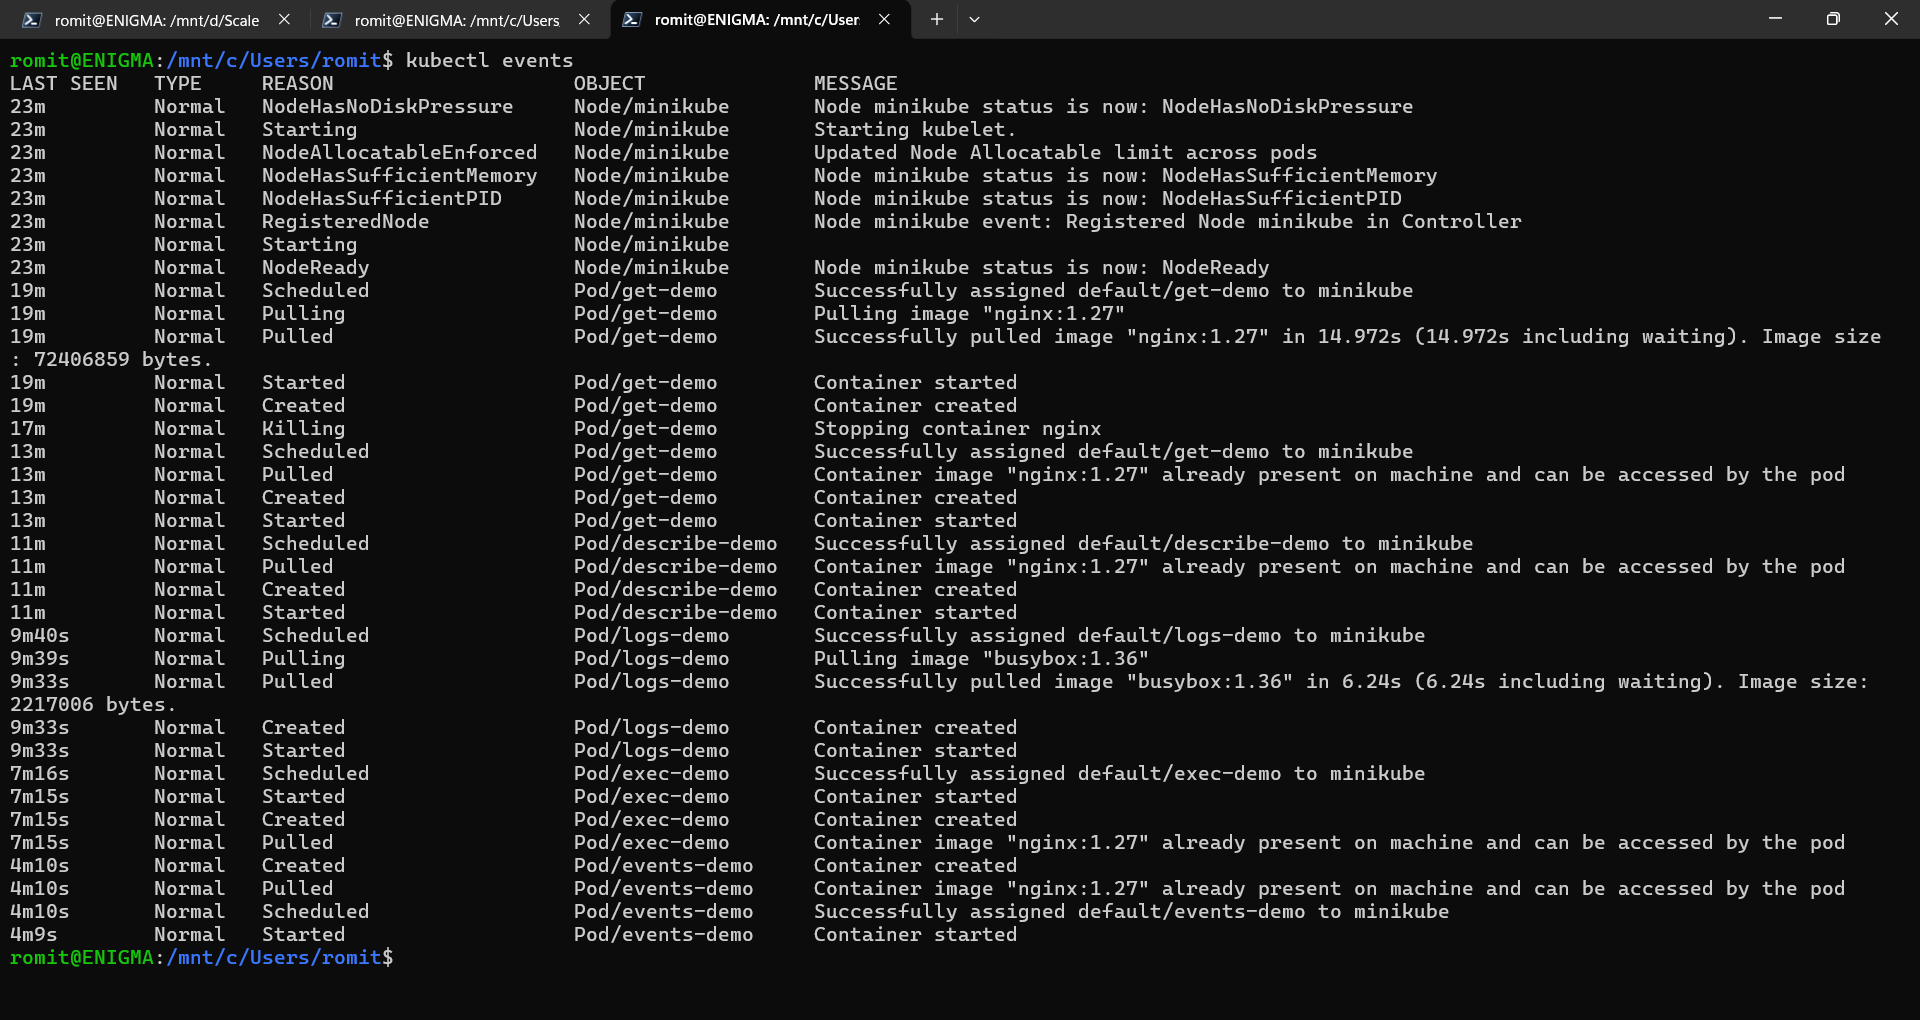
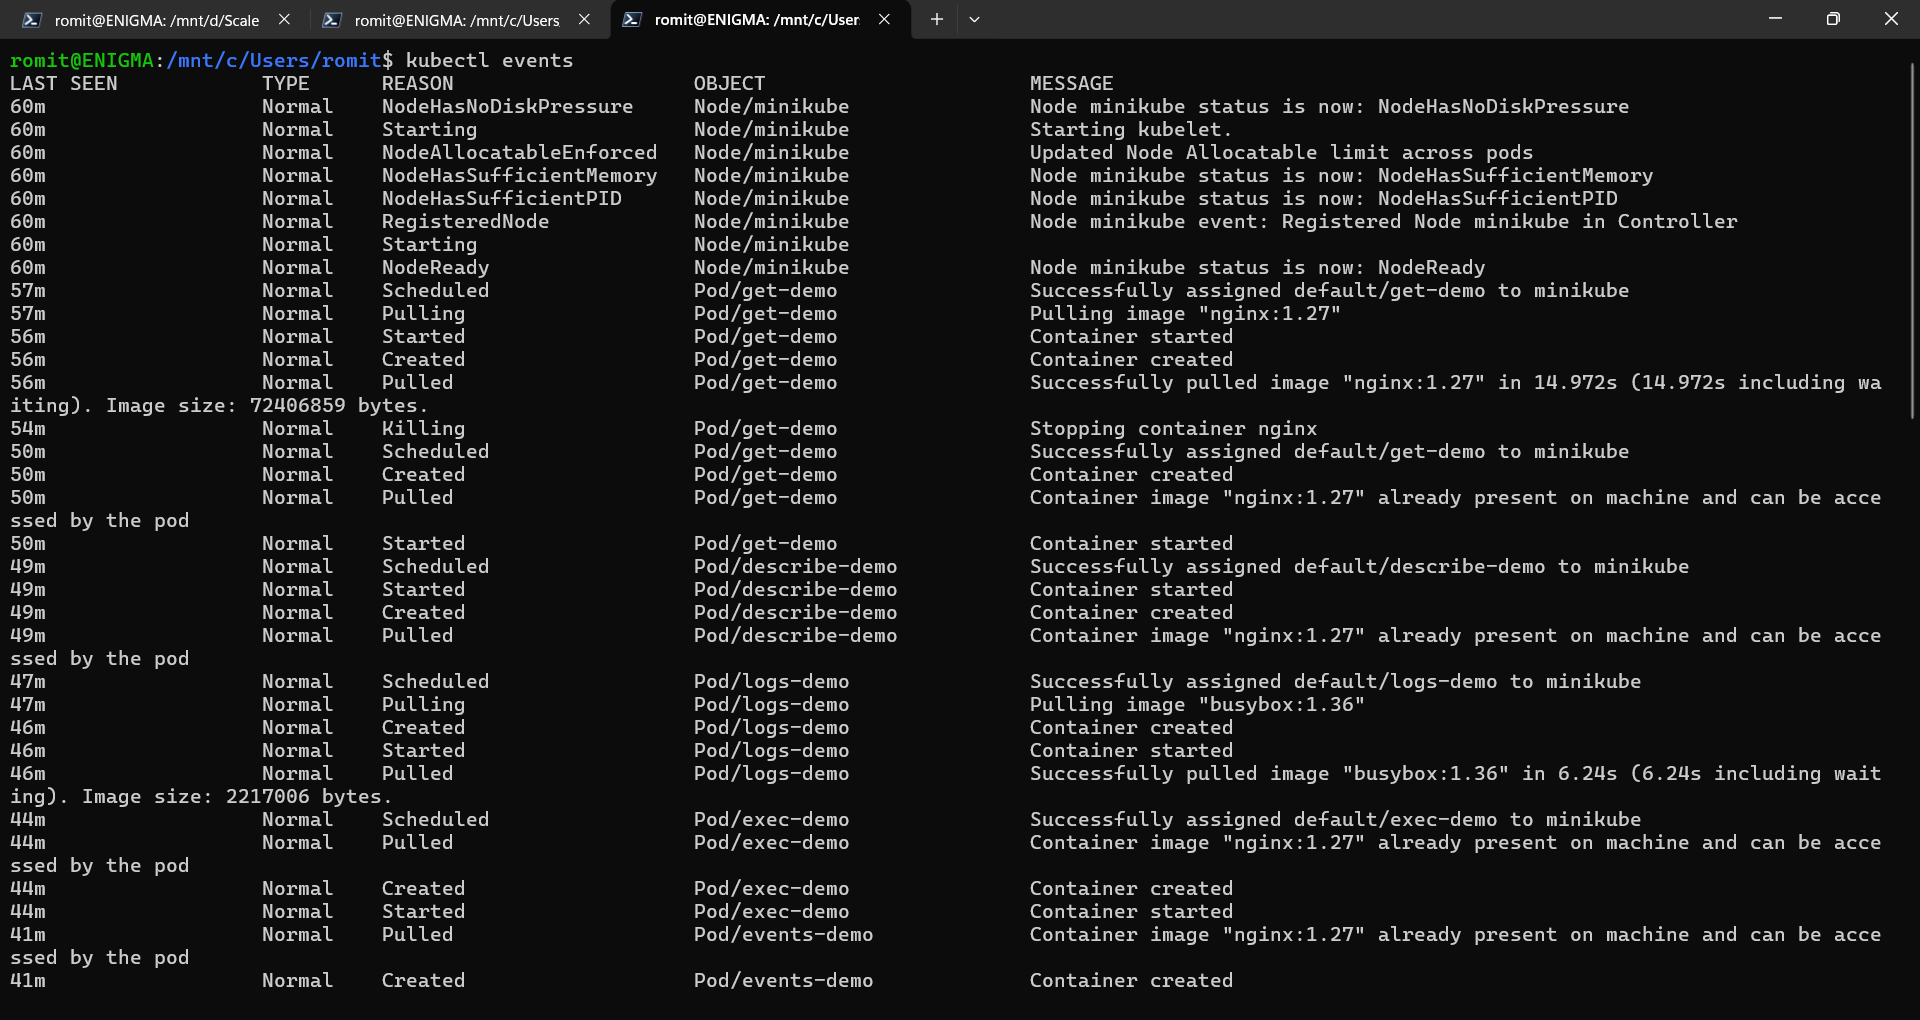
Added 4 more screenshots

Changed region(s): [[0.0, 0.0608, 1.0, 0.9725], [0.8438, 0.2127, 0.9062, 0.2431], [0.9062, 0.6686, 0.9375, 0.699]]

diff --git a/KUBECTL_SCREENSHOTS.md b/KUBECTL_SCREENSHOTS.md
@@ -1,0 +1,8 @@
+# kubectl events
+![](image1.png)
+# kubectl get pods
+![](image2.png)
+# kubectl get all
+![](image3.png)
+# kubectl get pods -o wide
+![](image4.png)
